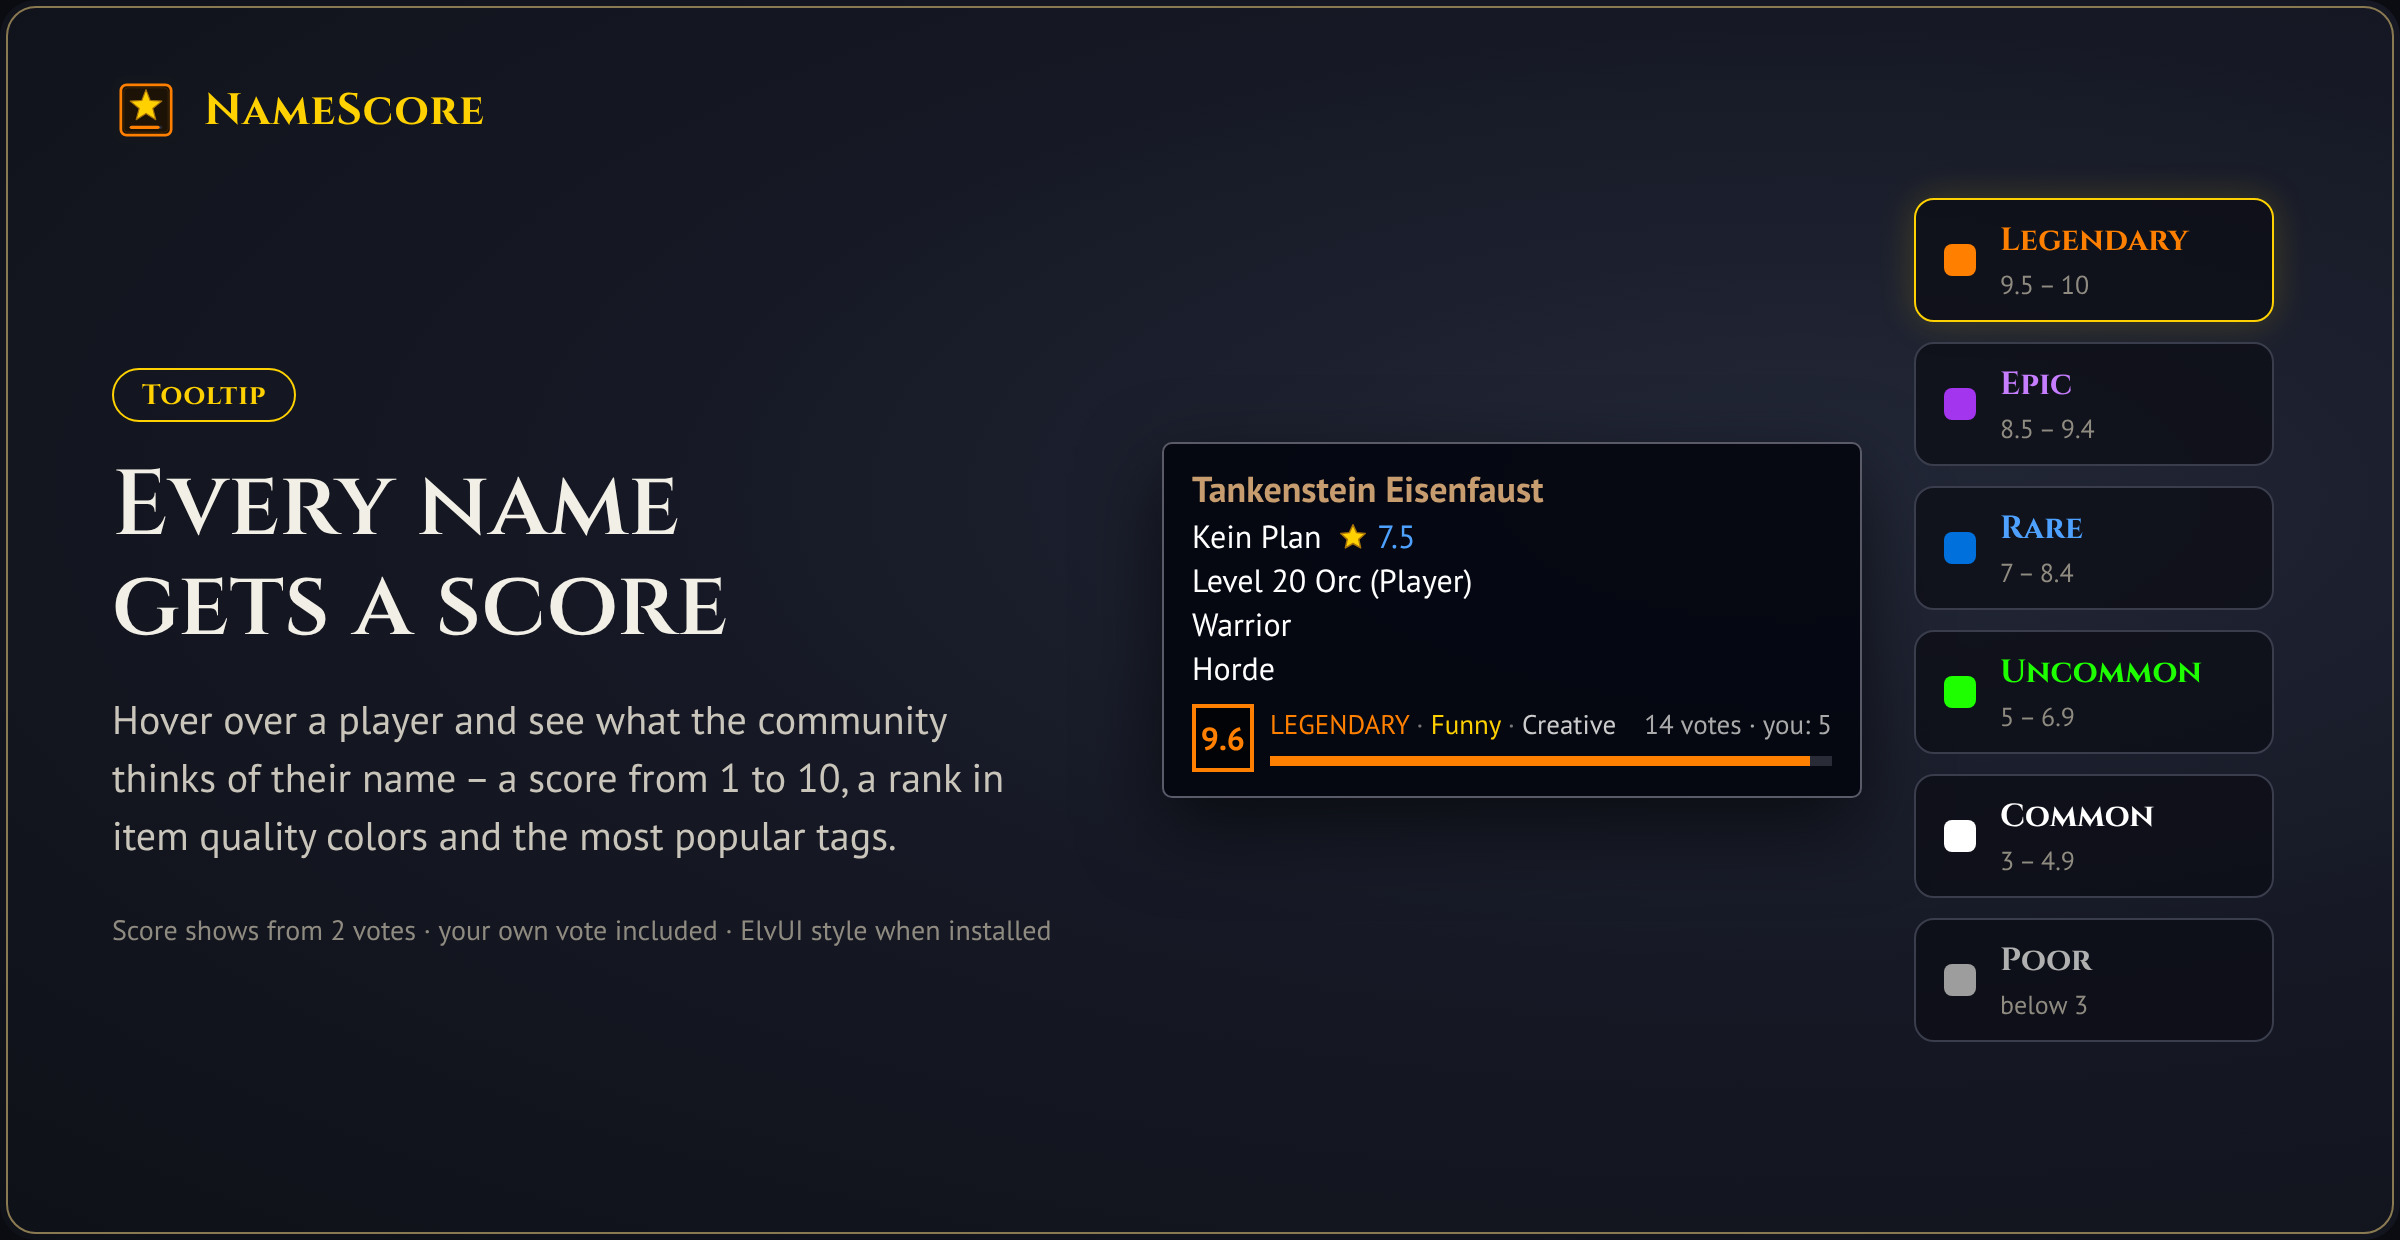
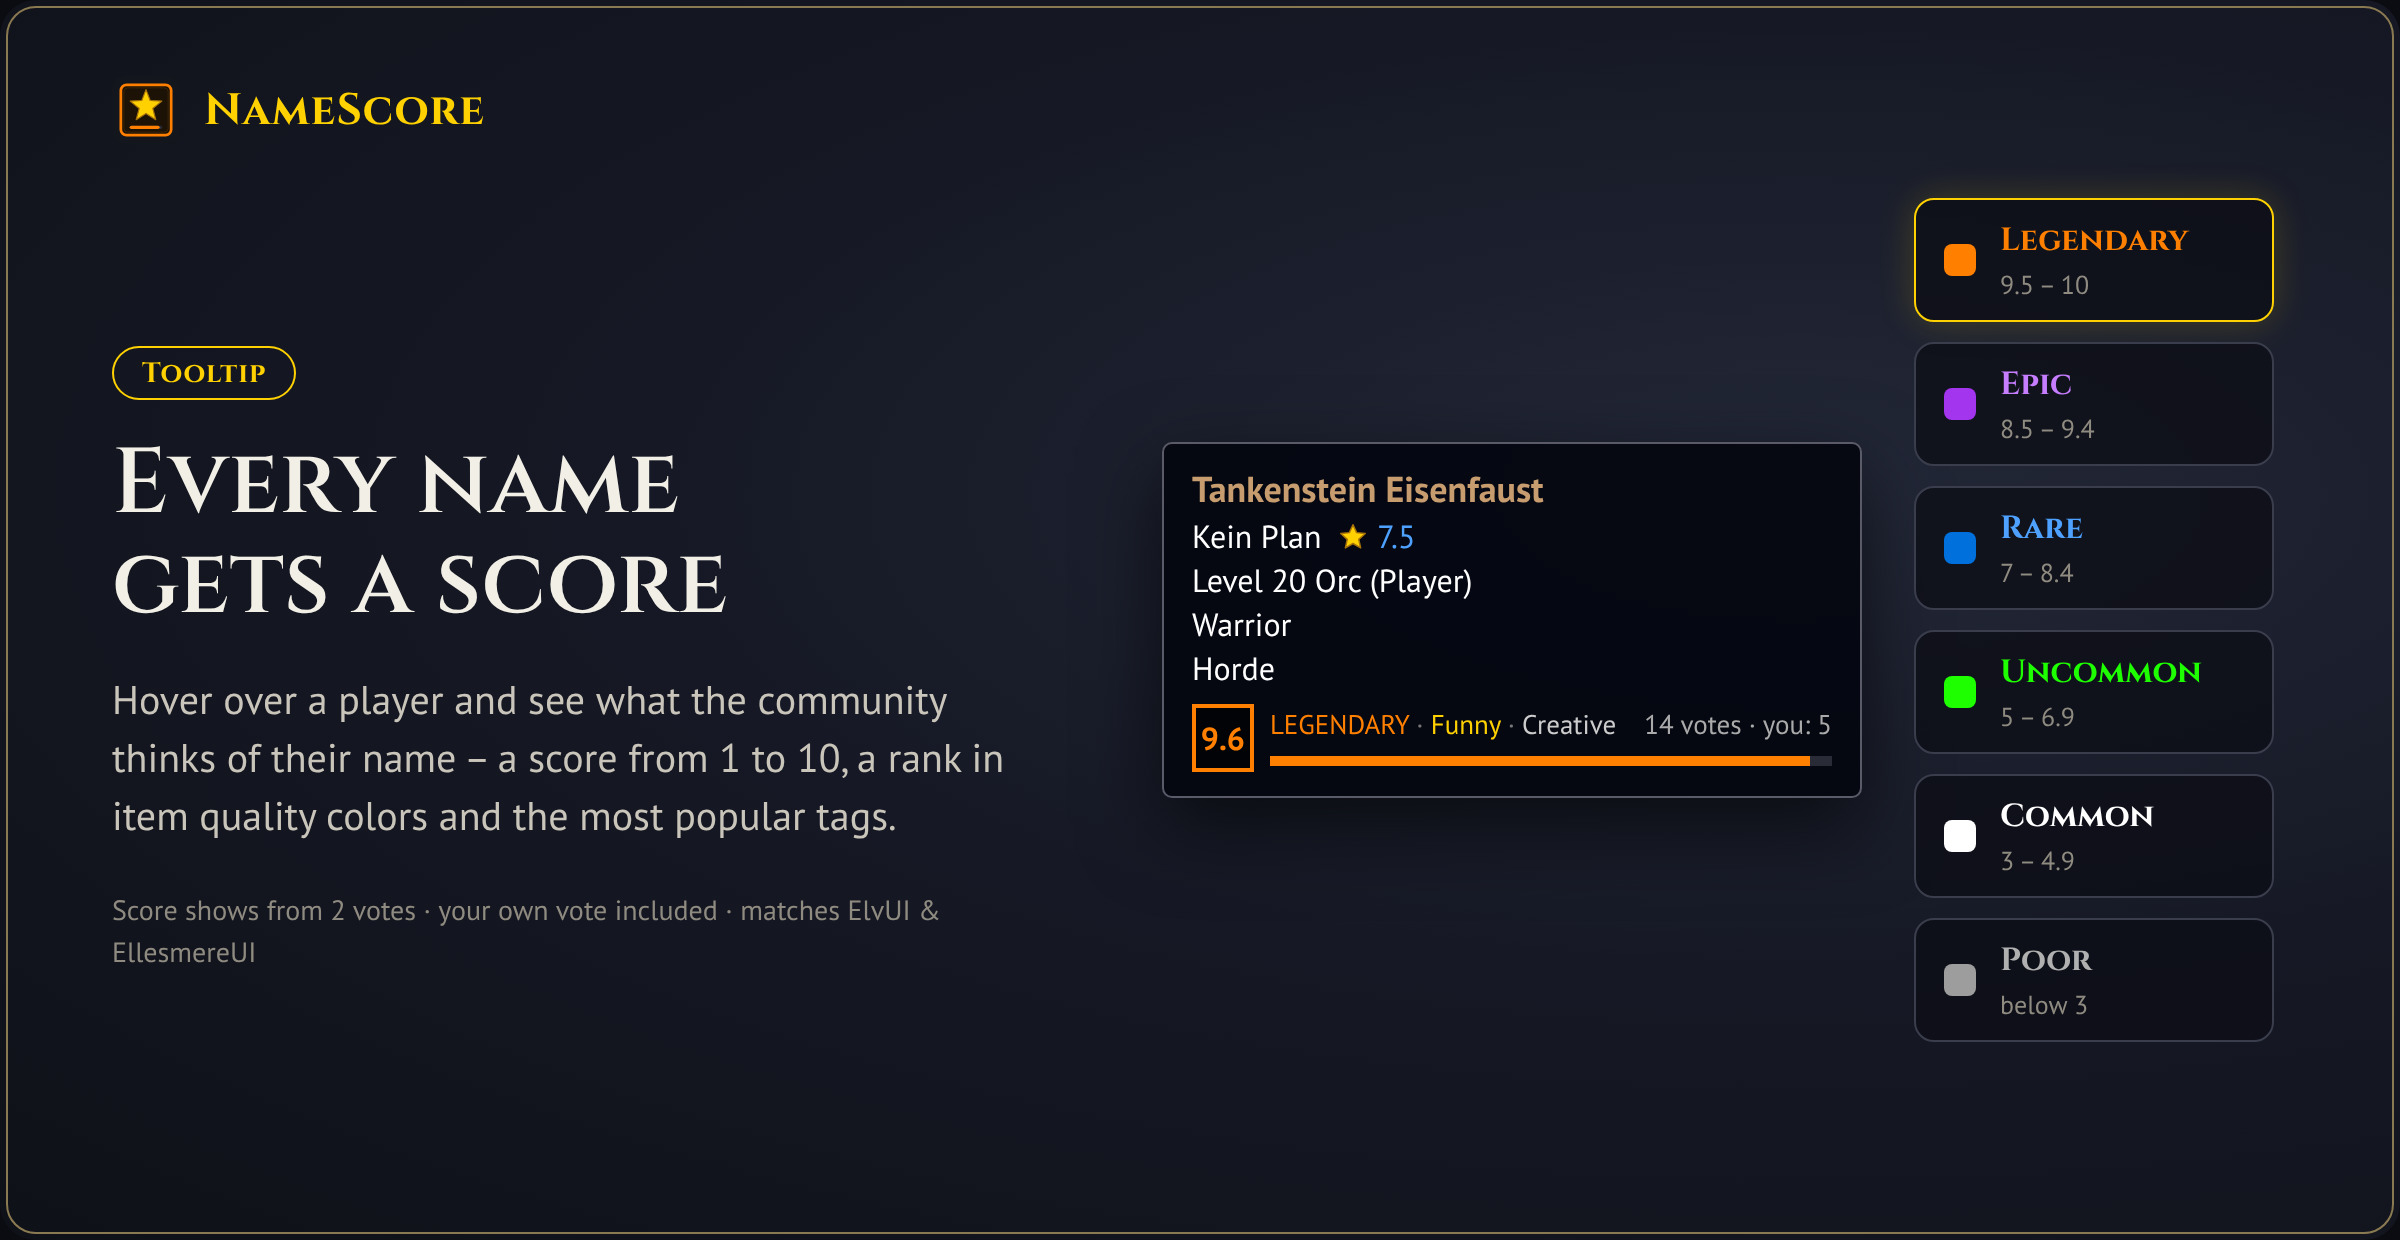
EllesmereUI support via its official skinning API
The rating window, hall of fame and tooltip badge fonts are handed to
EllesmereUI.RegisterSkin, so they follow the user's EUI theme, accent
color and font. ElvUI skinning stays as before but is skipped while
EllesmereUI skins NameScore. Hall of fame ties are now sorted by votes,
then alphabetically.

Claude-Session: https://claude.ai/code/session_01PggLsJU7U9iwU5xi23SNSQ

diff --git a/docs/banner-source/banners.html b/docs/banner-source/banners.html
@@ -97,7 +97,7 @@ h2 { margin: 0; font-family: Cinzel; font-weight: 600; font-size: 46px; line-hei
     <div class="pill">Tooltip</div>
     <h2>Every name<br>gets a score</h2>
     <p class="lead">Hover over a player and see what the community thinks of their name – a score from 1 to 10, a rank in item quality colors and the most popular tags.</p>
-    <p class="foot">Score shows from 2 votes · your own vote included · ElvUI style when installed</p>
+    <p class="foot">Score shows from 2 votes · your own vote included · matches ElvUI &amp; EllesmereUI</p>
   </div>
   <div class="right">
     <div class="tt" style="width:350px">

diff --git a/README.md b/README.md
@@ -13,7 +13,7 @@ Community addon for **World of Warcraft: Forever**: rate the names of players, g
 - **Hall of fame:** best and worst rated names, and everything you rated
 - **Settings** in *Options → AddOns → NameScore*
 - **In-game sync:** votes are shared with your guild and party/raid – no external servers
-- **ElvUI skin:** if ElvUI is installed, NameScore automatically uses its borders, fonts and colors
+- **ElvUI & EllesmereUI:** NameScore windows automatically match your UI – EllesmereUI via its official skinning API (theme, accent color and font), ElvUI via its skin module
 - **Languages:** English and German
 
 ## Commands
@@ -28,7 +28,7 @@ Community addon for **World of Warcraft: Forever**: rate the names of players, g
 | `/ns top` | Open the hall of fame |
 | `/ns options` | Open the settings |
 | `/ns min 1-5` | Votes needed before a score is shown |
-| `/ns badge` / `/ns own` / `/ns elvui` | Toggle tooltip badge / own vote / ElvUI style |
+| `/ns badge` / `/ns own` / `/ns elvui` | Toggle tooltip badge / own vote / ElvUI & EllesmereUI style |
 | `/ns sync` | Request votes from your guild and group |
 
 Commands and tags also work in German (`/ns gilde`, `/ns löschen`, `/ns optionen`, `lustig episch kreativ cringe`). You can't rate yourself, your own guild or your own pet.

diff --git a/docs/curseforge.md b/docs/curseforge.md
@@ -59,7 +59,9 @@ There are no external servers. Votes travel invisibly through your **guild** and
 
 ## Settings
 
-Find them in **Options → AddOns → NameScore**: tooltip badge on/off, show your own vote, votes needed for a score, and ElvUI style. If ElvUI is installed, NameScore automatically uses its borders, fonts and colors.
+Find them in **Options → AddOns → NameScore**: tooltip badge on/off, show your own vote, votes needed for a score, and the UI style.
+
+**ElvUI & EllesmereUI:** NameScore windows automatically match your UI. With **EllesmereUI** they follow your theme, accent color and font through its official skinning API (toggle it under *Blizzard Skins+ → Window Skins → Third-Party Addons*). With **ElvUI** they use its borders, fonts and colors.
 
 ## Language
 

diff --git a/CHANGELOG.md b/CHANGELOG.md
@@ -13,8 +13,11 @@
 - **Hall of fame** (`/ns top`): best and worst rated names and your own votes; click a
   name to change your vote
 - **Settings** in *Options → AddOns → NameScore* (`/ns options`): tooltip on/off, own vote
-  on/off, votes needed for a score, ElvUI style
+  on/off, votes needed for a score, ElvUI / EllesmereUI style
 - Votes older than 6 months are removed automatically to keep sync fast
+- **EllesmereUI support:** the rating window and hall of fame follow your EllesmereUI
+  theme, accent color and font via its official skinning API
+- Hall of fame: names with the same score are sorted by votes, then alphabetically
 
 ## v0.2.0
 - Rating window with ½ to 5 stars (half stars allowed) and multiple tags (Funny, Epic, Creative, Cringe)
